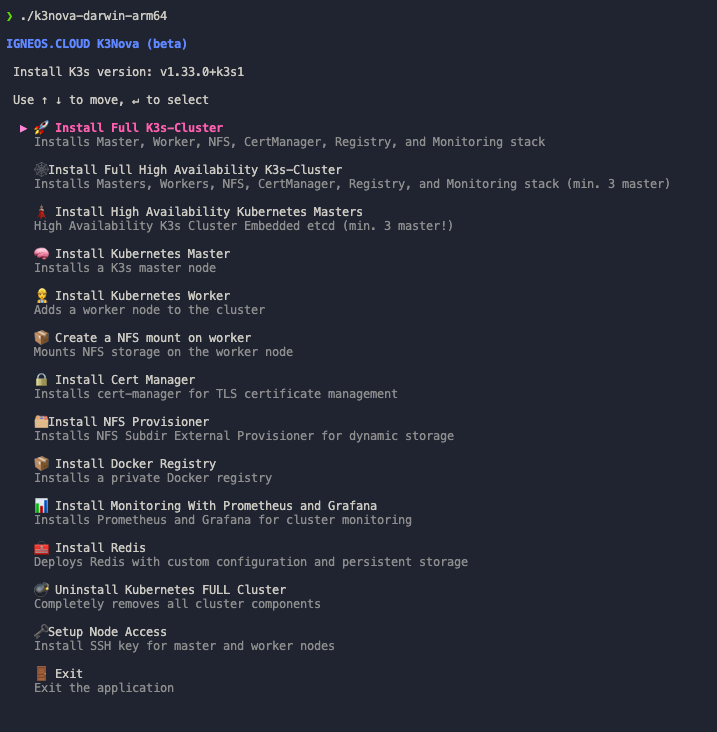
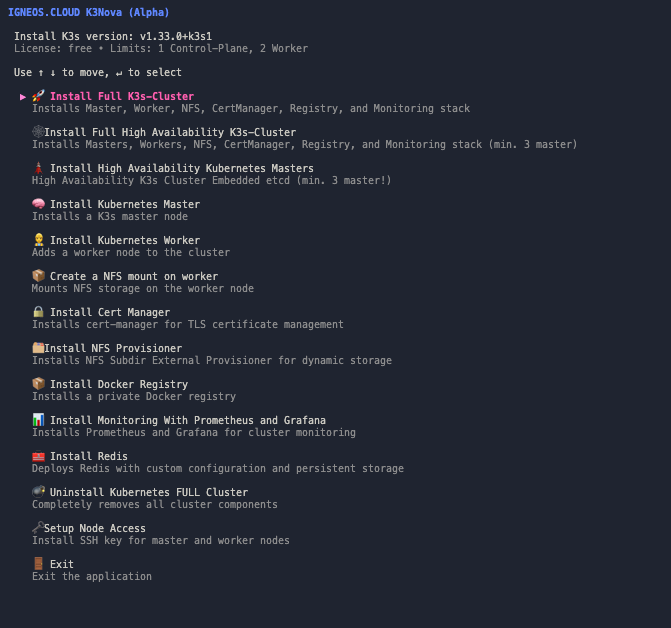
docs: update README and screenshot from IC_K3s_Cluster_Installer

Changed region(s): [[0.0, 0.0, 0.8644, 0.9682], [0.8644, 0.242, 0.924, 0.2723], [0.3875, 0.0605, 0.4471, 0.0908]]

diff --git a/README.md b/README.md
@@ -1,6 +1,12 @@
-# K3Nova K3s Cluster Installer (beta)
+# K3Nova K3s Cluster Installer (Alpha)
 
-The project is written in Go (Golang) and provides a modular, interactive CLI tool designed to automate the installation, configuration, and management of lightweight Kubernetes clusters using K3s. Its main objective is to significantly reduce the manual overhead of setting up a distributed Kubernetes environment while ensuring consistency, repeatability, and operational simplicity.
+The project is written in Go (Golang) and provides a modular, interactive CLI tool designed to automate the installation, configuration, and management of lightweight Kubernetes clusters using K3s. Its main objective is to significantly
+reduce the manual overhead of setting up a distributed Kubernetes environment while ensuring consistency, repeatability, and operational simplicity.
+
+> **Note**: K3Nova is currently in active development.  
+> While the core features are functional, you may still encounter some bugs or unfinished features.  
+> Feedback, ideas, and contributions are highly appreciated!  
+> Join the discussion here: [K3Nova Discussions](https://github.com/AndrejSchefer/K3Nova/discussions)
 
 ![Interactive K3s Installer Menu](Interactive_ic_k3s_installer_menu.png)
 
